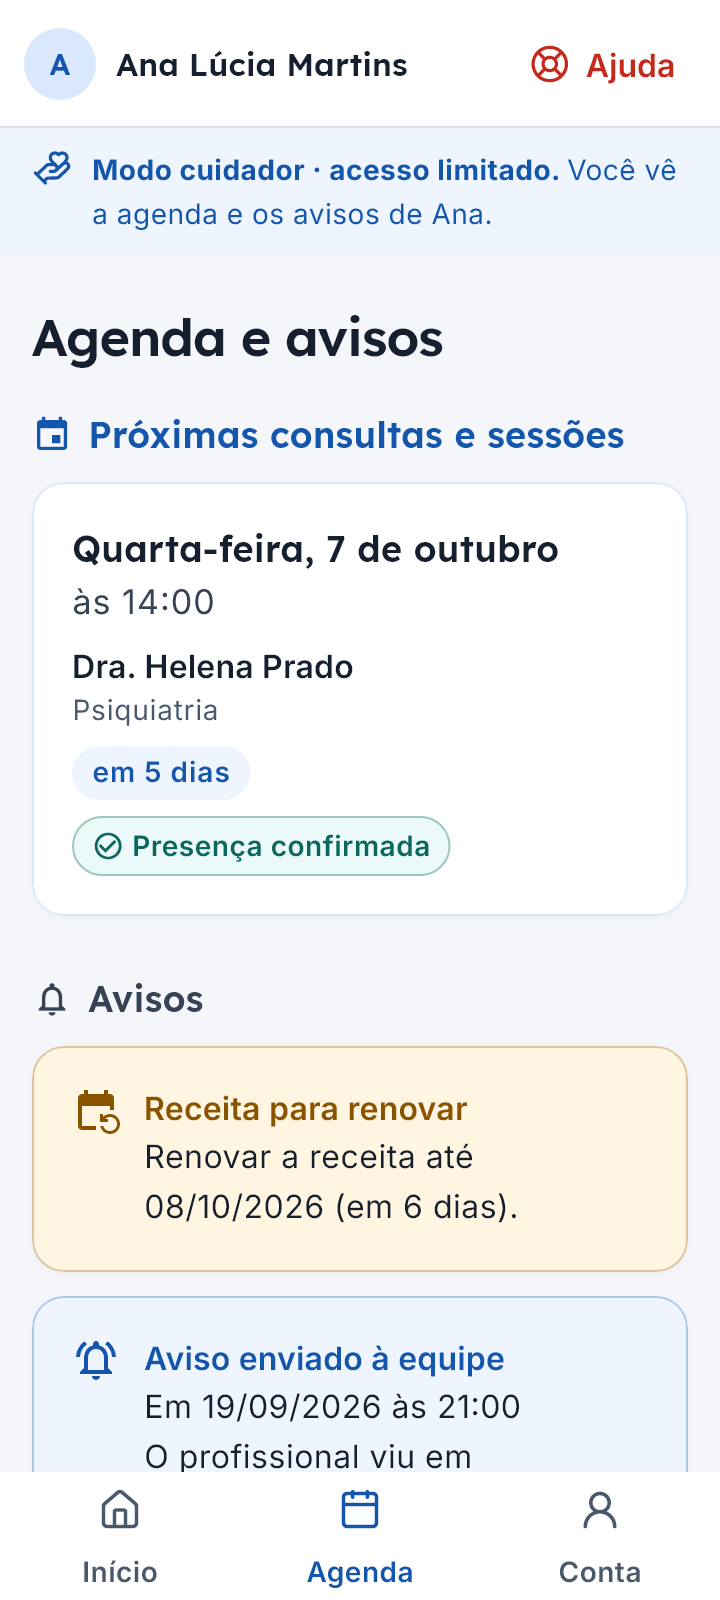
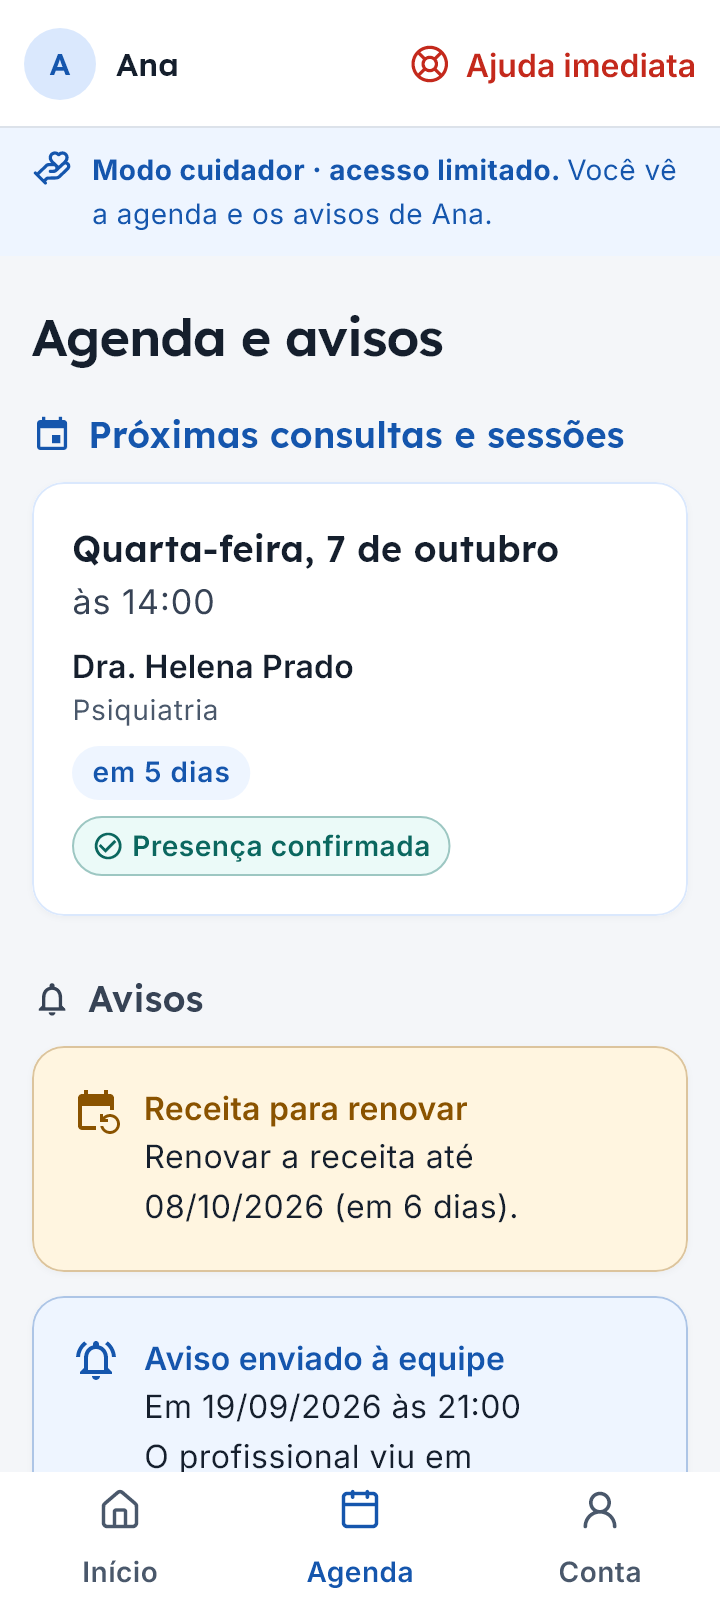
feat(topo): primeiro nome do paciente e "Ajuda imediata", como no portal
O seletor mostra só o primeiro nome (o inteiro fica na folha e na Conta), e o
botão diz Ajuda imediata, com largura máxima e escala do texto em 1,15× para
não tirar o lugar do nome. O nó de semântica cobre avatar e nome.

Changed region(s): [[0.2444, 0.0312, 0.9778, 0.0625]]

diff --git a/lib/funcionalidades/moldura/moldura_do_portal.dart b/lib/funcionalidades/moldura/moldura_do_portal.dart
@@ -137,9 +137,12 @@ class MolduraDoPortal extends StatelessWidget {
   }
 }
 
-/// O topo do portal no telefone: o seletor de paciente (avatar, nome e, com
-/// mais de um perfil, a seta que abre "De quem você quer ver?") e o atalho
-/// "Ajuda", que abre a ajuda imediata (SAMU 192, CVV 188).
+/// O topo do portal no telefone: o seletor de paciente (avatar, primeiro nome
+/// e, com mais de um perfil, a seta que abre "De quem você quer ver?") e o
+/// atalho "Ajuda imediata", que abre os números do SAMU 192 e do CVV 188.
+///
+/// Como a barra de baixo, o topo para a escala do texto em 1,15×: com a
+/// fonte grande, "Ajuda imediata" e o nome não cabem lado a lado a 360 dp.
 class TopoDoPortal extends StatelessWidget implements PreferredSizeWidget {
   const TopoDoPortal({super.key});
 
@@ -150,24 +153,38 @@ class TopoDoPortal extends StatelessWidget implements PreferredSizeWidget {
   Widget build(BuildContext context) {
     final perfil = context.select<Sessao, Perfil?>((s) => s.perfilAtivo);
     final varios = context.select<Sessao, bool>((s) => s.temVariosPerfis);
-    return AppBar(
-      automaticallyImplyLeading: false,
-      toolbarHeight: 64,
-      titleSpacing: 12,
-      shape: const Border(bottom: BorderSide(color: CoresTerae.borda)),
-      title: perfil == null
-          ? null
-          : _SeletorDePaciente(perfil: perfil, varios: varios),
-      actions: [
-        TextButton.icon(
-          key: const Key('topo-ajuda'),
-          onPressed: () => context.push(Rotas.ajuda),
-          style: TextButton.styleFrom(foregroundColor: CoresTerae.erro),
-          icon: const Icon(LucideIcons.lifeBuoy, size: 20),
-          label: const Text('Ajuda'),
-        ),
-        const SizedBox(width: 8),
-      ],
+    return MediaQuery.withClampedTextScaling(
+      maxScaleFactor: 1.15,
+      child: AppBar(
+        automaticallyImplyLeading: false,
+        toolbarHeight: 64,
+        titleSpacing: 12,
+        shape: const Border(bottom: BorderSide(color: CoresTerae.borda)),
+        title: perfil == null
+            ? null
+            : _SeletorDePaciente(perfil: perfil, varios: varios),
+        actions: [
+          // O botão nunca passa de 176 dp: o rótulo encolhe antes de tirar o
+          // lugar do nome do paciente (fonte muito larga ou do aparelho).
+          ConstrainedBox(
+            constraints: const BoxConstraints(maxWidth: 176),
+            child: TextButton.icon(
+              key: const Key('topo-ajuda'),
+              onPressed: () => context.push(Rotas.ajuda),
+              style: TextButton.styleFrom(
+                foregroundColor: CoresTerae.erro,
+                padding: const EdgeInsets.symmetric(horizontal: 8),
+              ),
+              icon: const Icon(LucideIcons.lifeBuoy, size: 20),
+              label: const FittedBox(
+                fit: BoxFit.scaleDown,
+                child: Text('Ajuda imediata'),
+              ),
+            ),
+          ),
+          const SizedBox(width: 4),
+        ],
+      ),
     );
   }
 }
@@ -186,8 +203,10 @@ class _SeletorDePaciente extends StatelessWidget {
         Avatar(nome: perfil.paciente.nome),
         const SizedBox(width: 10),
         Flexible(
+          // O portal mostra só o primeiro nome no topo; o nome inteiro fica
+          // na folha "De quem você quer ver?" e na Conta.
           child: Text(
-            perfil.paciente.nome,
+            perfil.paciente.primeiroNome,
             overflow: TextOverflow.ellipsis,
             style: const TextStyle(
               fontSize: 16,
@@ -206,7 +225,14 @@ class _SeletorDePaciente extends StatelessWidget {
         ],
       ],
     );
-    if (!varios) return conteudo;
+    if (!varios) {
+      // O nó de semântica cobre o avatar e o nome, com o nome inteiro lido.
+      return Semantics(
+        label: perfil.paciente.nome,
+        excludeSemantics: true,
+        child: conteudo,
+      );
+    }
     return Semantics(
       button: true,
       label: 'De quem você quer ver? Agora: ${perfil.paciente.nome}',

diff --git a/test/funcionalidades/paciente/paridade_sessao_test.dart b/test/funcionalidades/paciente/paridade_sessao_test.dart
@@ -164,4 +164,32 @@ void main() {
       );
     });
   });
+
+  group('Topo: o seletor de paciente e a Ajuda imediata do portal', () {
+    testWidgets('só o primeiro nome no topo, o nome inteiro na folha e na '
+        'Conta; "Ajuda imediata" no botão', (tester) async {
+      final sessao = Sessao()..entrar(vinculosPatricia());
+      sessao.escolherPerfil(
+        sessao.perfis.firstWhere((p) => p.paciente.id == 'p-miguel'),
+      );
+      await abrirAppDoPaciente(tester, sessao: sessao);
+      final seletor = find.byKey(const Key('seletor-de-paciente'));
+      expect(
+        find.descendant(of: seletor, matching: find.text('Miguel')),
+        findsOneWidget,
+      );
+      expect(find.text('Miguel Andrade Neves'), findsNothing);
+      expect(
+        find.descendant(
+          of: find.byKey(const Key('topo-ajuda')),
+          matching: find.text('Ajuda imediata'),
+        ),
+        findsOneWidget,
+      );
+      await tocar(tester, seletor);
+      expect(find.text('De quem você quer ver?'), findsOneWidget);
+      expect(find.text('Miguel Andrade Neves'), findsOneWidget);
+      expect(find.text('Laura Andrade Neves'), findsOneWidget);
+    });
+  });
 }
